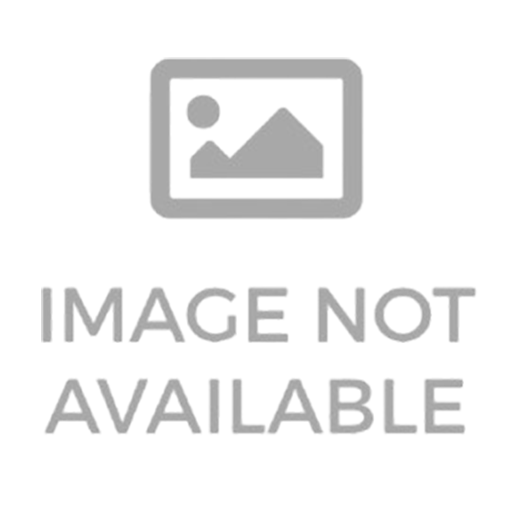
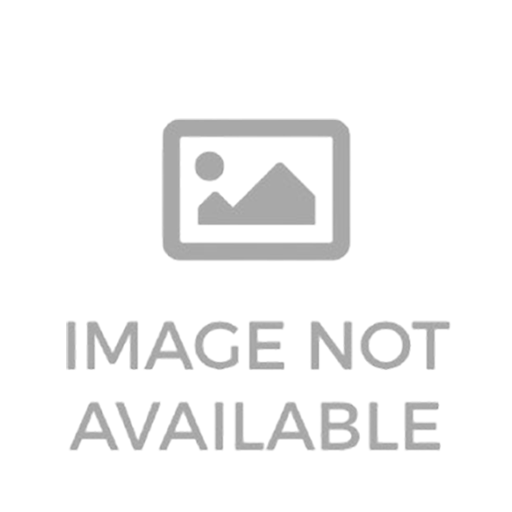
fix position from Image in DrinkTile

Changed region(s): [[0.0625, 0.5625, 0.9375, 0.9062], [0.2812, 0.0938, 0.7188, 0.5312]]

diff --git a/App/smartender_flutter_app/lib/components/drink_tile.dart b/App/smartender_flutter_app/lib/components/drink_tile.dart
@@ -37,20 +37,23 @@ class DrinkTile extends StatelessWidget {
         ),
         child: Column(
           children: [
-            // 1) Kopfzeile (Icon links, falls alkoholisch)
-            if (isAlcoholic)
-              Align(
-                alignment: Alignment.topLeft,
-                // Statt negative Padding => normale Padding oder Transform
-                child: Padding(
-                  padding: const EdgeInsets.only(top: 20, left: 0), // kein negatives left
-                  child: Icon(
-                    Icons.eighteen_up_rating_outlined,
-                    color: theme.falseColor,
-                    size: 28,
-                  ),
-                ),
+            // 1) Kopfzeile (Icon oder Platzhalter, um Konsistenz zu gewährleisten)
+            Align(
+              alignment: Alignment.topLeft,
+              child: Padding(
+                padding: const EdgeInsets.only(top: 20, left: 0),
+                child: isAlcoholic
+                    ? Icon(
+                  Icons.eighteen_up_rating_outlined,
+                  color: theme.falseColor,
+                  size: 28,
+                )
+                    : SizedBox(
+                  width: 28,
+                  height: 28,
+                ), // Platzhalter mit gleicher Größe wie das Icon
               ),
+            ),
 
             // 2) Bild
             Expanded(
